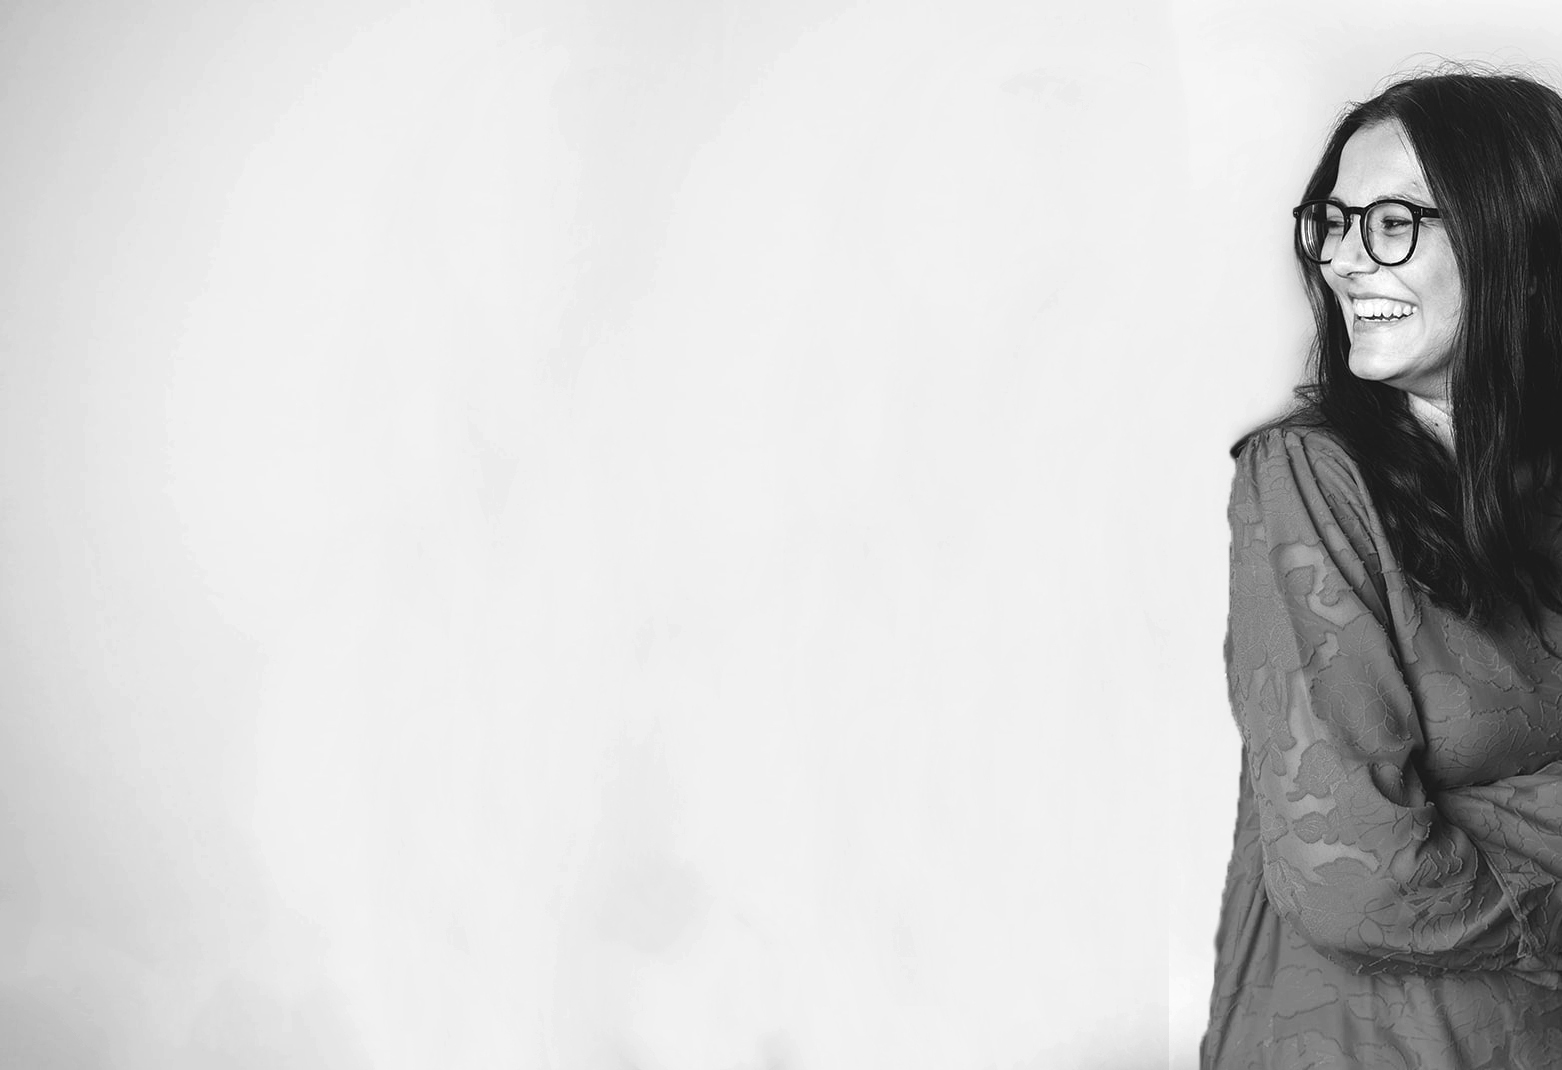
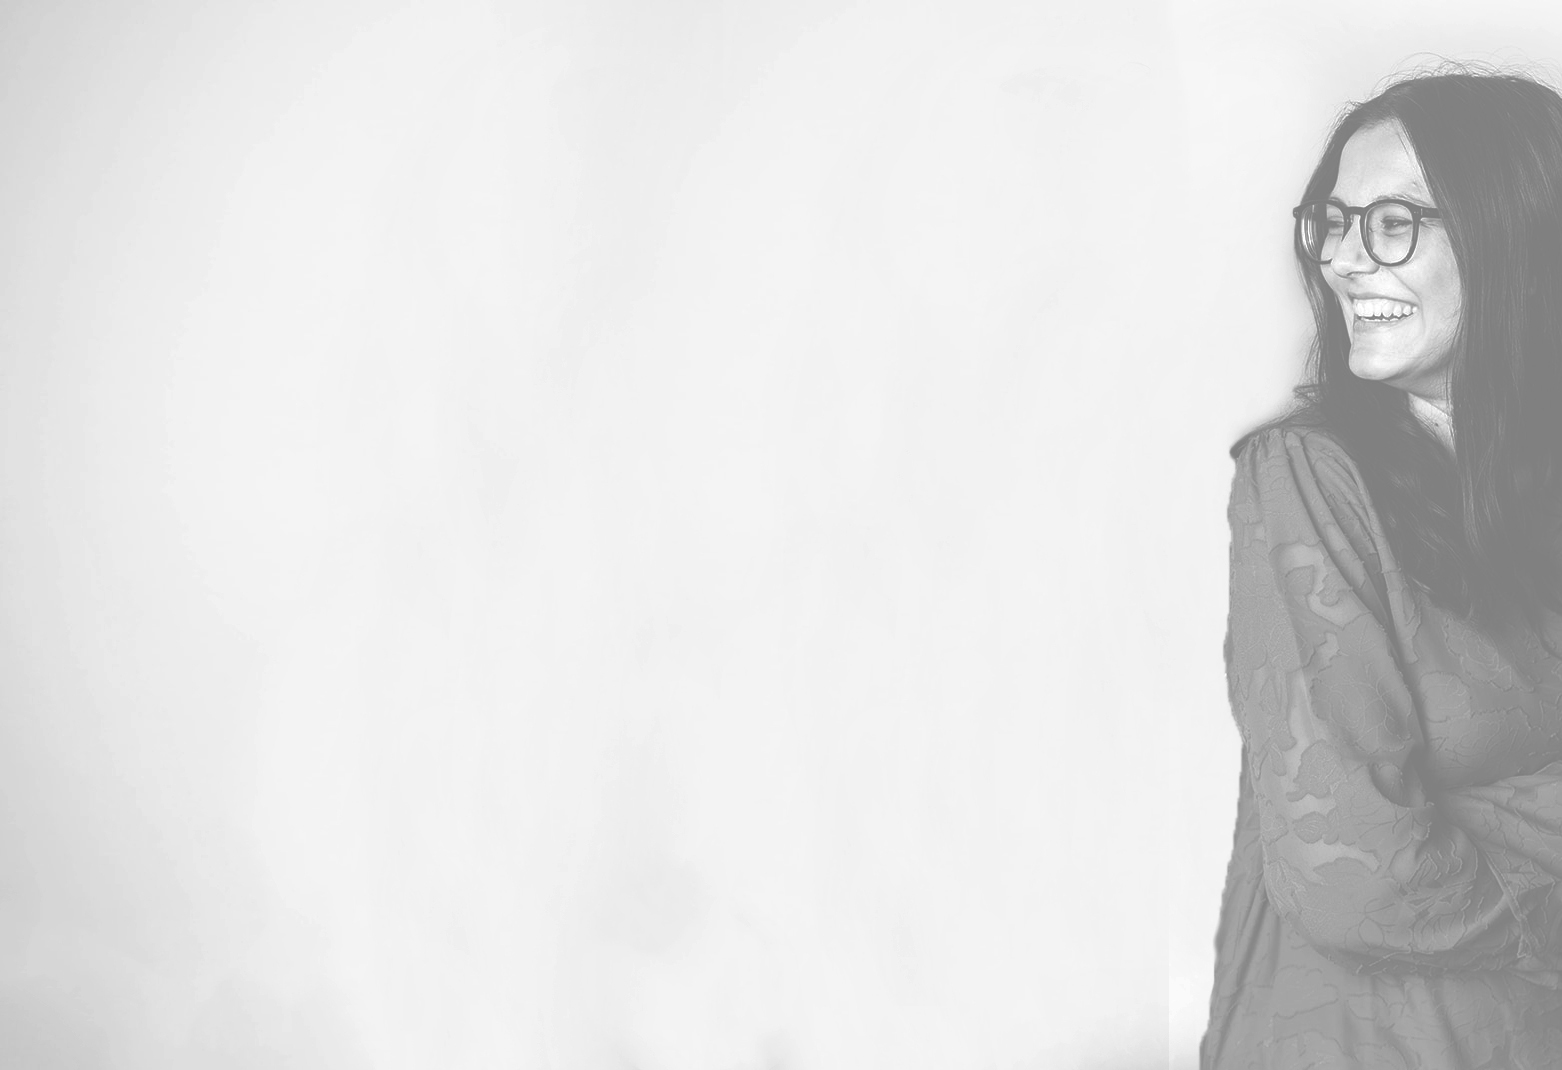
change color pic mobile

Changed region(s): [[0.7682, 0.0617, 1.0, 1.0]]

diff --git a/index.html b/index.html
@@ -76,7 +76,7 @@
                       <div class="title-div-b" style="padding-top:50px;">
                       </div>
                       <h4 class="" style="font-size:45px;">Votre site web <br>en une journée!</h4>
-                      <p class="text-black-50 mb-0" style="font-size:20px; ">Vous désirez avoir propre site web ou en créer un nouveau au goût du jour,
+                      <p class="text-black-50 mb-0" style="font-size:20px; ">Vous désirez avoir votre propre site web ou en créer un nouveau au goût du jour,
                       cette formation pratique est faite pour vous.</p>
                     </div>
                   </div>
@@ -187,7 +187,7 @@
                             <p class="text-black-50 mb-0">Après quelques années dans une multinationale
                             où je m’occupais de développer la stratégie de distribution dans différents
                           pays, j'ai décidé de me réorienter profressionellement. Ayant toujours été
-                        intéressée le milieu de la tech, je me suis formée en développement web et en
+                        intéressée par le milieu de la tech, je me suis formée en développement web et en
                       marketing digital.  Depuis lors, je donne des formations en développement web aux
                        adultes ainsi que des ateliers de robotique et de codage aux enfants.
                      Aujourd’hui, mes deux associés et moi avons créé Unloqd, une agence digitale,

diff --git a/css/styles.css b/css/styles.css
@@ -10708,8 +10708,10 @@ position: relative;
   background-repeat: no-repeat;
   background-attachment: scroll;
   background-size: cover;
-
   background-position-x: right;
+}
+.content-left {
+  padding-left: 3px;
 }
 }
 
